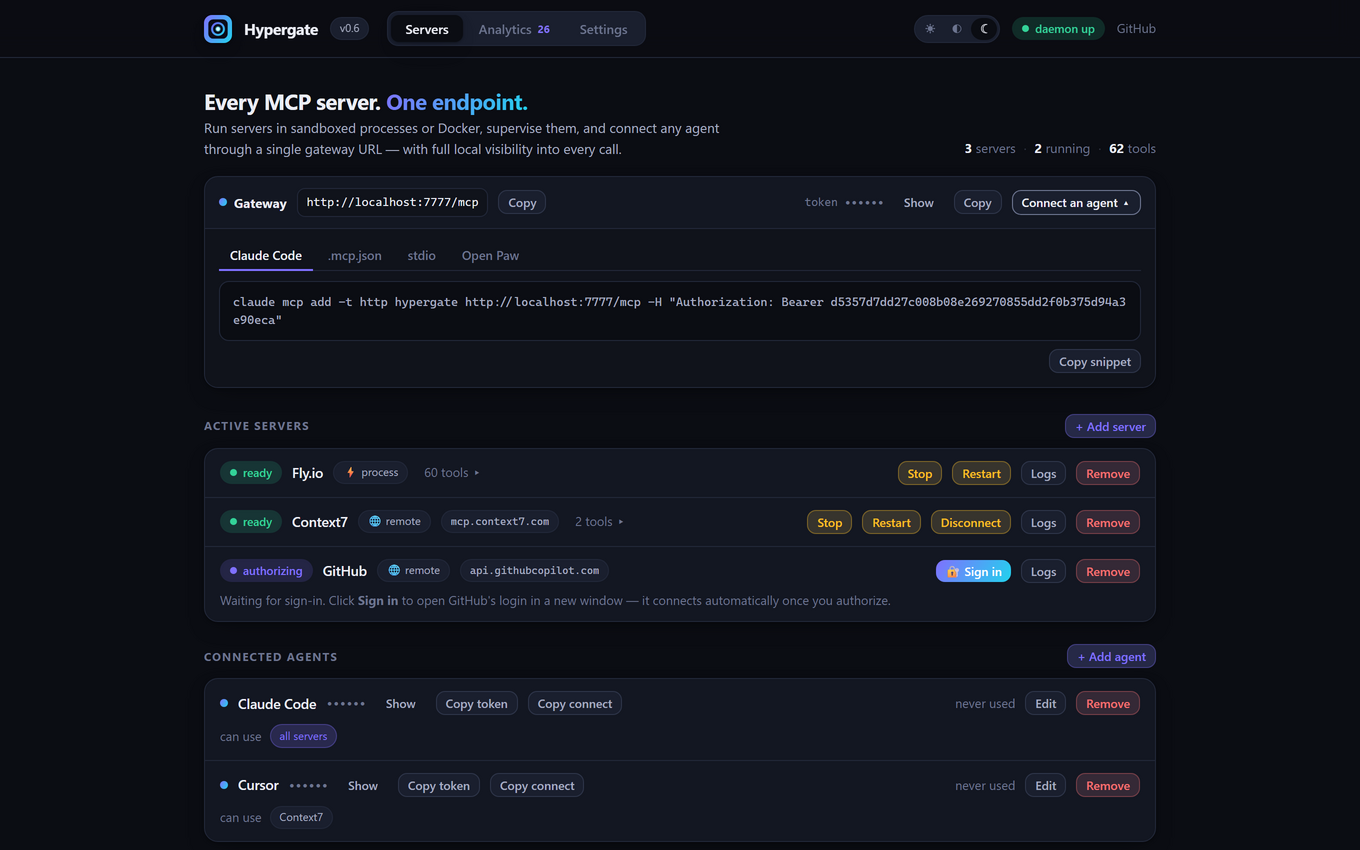
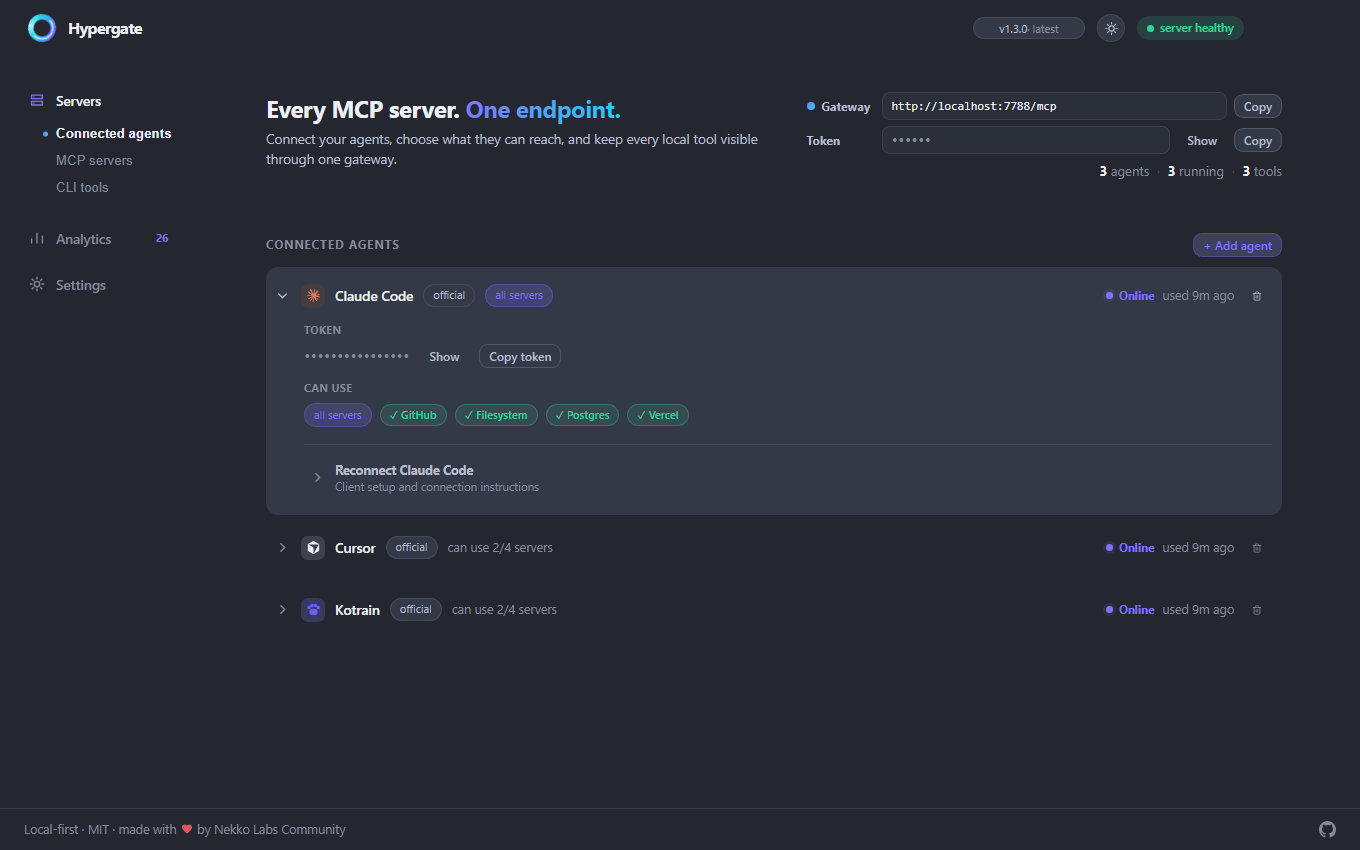
feat(site): show the app users get today
Replace the retired v0.6 product imagery with current, isolated captures so the marketing promise matches the shipped manager.

Generated with [Devin](https://devin.ai)

diff --git a/apps/site/index.html b/apps/site/index.html
@@ -184,7 +184,7 @@
         <figure class="shot reveal" data-parallax="0.05" data-title="Access control">
           <picture>
             <source type="image/webp" srcset="/demos/gateway-680.webp 680w, /demos/gateway.webp 1360w" sizes="(max-width: 900px) calc(100vw - 40px), 58vw" />
-            <img src="/demos/gateway.png" srcset="/demos/gateway-680.png 680w, /demos/gateway.png 1360w" sizes="(max-width: 900px) calc(100vw - 40px), 58vw" alt="Hypergate showing a masked gateway token, MCP servers including an OAuth-protected GitHub server awaiting sign-in, and connected agents scoped with per-server allow-lists" width="1360" height="850" loading="lazy" />
+            <img src="/demos/gateway.png" srcset="/demos/gateway-680.png 680w, /demos/gateway.png 1360w" sizes="(max-width: 900px) calc(100vw - 40px), 58vw" alt="Hypergate access-control view with Claude Code expanded to show its masked token and access to GitHub, Filesystem, Postgres, and Vercel" width="1360" height="850" loading="lazy" />
           </picture>
         </figure>
       </article>
@@ -206,7 +206,7 @@
         <figure class="shot reveal" data-parallax="0.05" data-title="Servers">
           <picture>
             <source type="image/webp" srcset="/demos/servers-680.webp 680w, /demos/servers.webp 1360w" sizes="(max-width: 900px) calc(100vw - 40px), 58vw" />
-            <img src="/demos/servers.png" srcset="/demos/servers-680.png 680w, /demos/servers.png 1360w" sizes="(max-width: 900px) calc(100vw - 40px), 58vw" alt="Hypergate servers view: Fly.io process server, Context7 remote server, GitHub awaiting sign-in, and scoped connected agents" width="1360" height="850" loading="lazy" />
+            <img src="/demos/servers.png" srcset="/demos/servers-680.png 680w, /demos/servers.png 1360w" sizes="(max-width: 900px) calc(100vw - 40px), 58vw" alt="Hypergate MCP servers view with GitHub, Filesystem, and Postgres running, Vercel awaiting a token, and per-agent access counts" width="1360" height="850" loading="lazy" />
           </picture>
         </figure>
       </article>
@@ -227,7 +227,7 @@
         <figure class="shot reveal" data-parallax="0.05" data-title="Analytics">
           <picture>
             <source type="image/webp" srcset="/demos/analytics-680.webp 680w, /demos/analytics.webp 1360w" sizes="(max-width: 900px) calc(100vw - 40px), 58vw" />
-            <img src="/demos/analytics.png" srcset="/demos/analytics-680.png 680w, /demos/analytics.png 1360w" sizes="(max-width: 900px) calc(100vw - 40px), 58vw" alt="Hypergate analytics: 26 tool calls at 100 percent success across 4 clients, usage by server and a who's-calling breakdown" width="1360" height="850" loading="lazy" />
+            <img src="/demos/analytics.png" srcset="/demos/analytics-680.png 680w, /demos/analytics.png 1360w" sizes="(max-width: 900px) calc(100vw - 40px), 58vw" alt="Hypergate analytics overview with 26 calls at 100 percent success across three agents and usage by GitHub, Filesystem, and Postgres" width="1360" height="850" loading="lazy" />
           </picture>
         </figure>
       </article>
@@ -249,7 +249,7 @@
         <figure class="shot reveal" data-parallax="0.05" data-title="Add a server">
           <picture>
             <source type="image/webp" srcset="/demos/catalog-680.webp 680w, /demos/catalog.webp 1360w" sizes="(max-width: 900px) calc(100vw - 40px), 58vw" />
-            <img src="/demos/catalog.png" srcset="/demos/catalog-680.png 680w, /demos/catalog.png 1360w" sizes="(max-width: 900px) calc(100vw - 40px), 58vw" alt="Hypergate catalog with official trust chips and one-click OAuth sign-in-and-add buttons for Context7, Supabase, Linear, and Figma" width="1360" height="850" loading="lazy" />
+            <img src="/demos/catalog.png" srcset="/demos/catalog-680.png 680w, /demos/catalog.png 1360w" sizes="(max-width: 900px) calc(100vw - 40px), 58vw" alt="Hypergate catalog with official OAuth servers and recommended connection guidance for Context7, Supabase, Linear, Figma, and GitHub" width="1360" height="850" loading="lazy" />
           </picture>
         </figure>
       </article>
@@ -270,7 +270,7 @@
         <figure class="shot reveal" data-parallax="0.05" data-title="Tool inspector">
           <picture>
             <source type="image/webp" srcset="/demos/tools-680.webp 680w, /demos/tools.webp 1360w" sizes="(max-width: 900px) calc(100vw - 40px), 58vw" />
-            <img src="/demos/tools.png" srcset="/demos/tools-680.png 680w, /demos/tools.png 1360w" sizes="(max-width: 900px) calc(100vw - 40px), 58vw" alt="Hypergate tool inspector showing Fly.io tools with typed parameters and required flags" width="1360" height="850" loading="lazy" />
+            <img src="/demos/tools.png" srcset="/demos/tools-680.png 680w, /demos/tools.png 1360w" sizes="(max-width: 900px) calc(100vw - 40px), 58vw" alt="Hypergate GitHub server detail showing a typed tool schema, connected-agent permissions, and local logs" width="1360" height="850" loading="lazy" />
           </picture>
         </figure>
       </article>
@@ -292,7 +292,7 @@
         <figure class="shot reveal" data-parallax="0.05" data-title="Command-line tools">
           <picture>
             <source type="image/webp" srcset="/demos/clis-680.webp 680w, /demos/clis.webp 1360w" sizes="(max-width: 900px) calc(100vw - 40px), 58vw" />
-            <img src="/demos/clis.png" srcset="/demos/clis-680.png 680w, /demos/clis.png 1360w" sizes="(max-width: 900px) calc(100vw - 40px), 58vw" alt="Hypergate CLI detection: Node.js, npx, npm, Bun installed with versions and paths, Deno missing with an install hint" width="1360" height="850" loading="lazy" />
+            <img src="/demos/clis.png" srcset="/demos/clis-680.png 680w, /demos/clis.png 1360w" sizes="(max-width: 900px) calc(100vw - 40px), 58vw" alt="Hypergate CLI tools view showing installed Node.js, npx, and npm with versions and system paths" width="1360" height="850" loading="lazy" />
           </picture>
         </figure>
       </article>

diff --git a/apps/daemon/src/index.ts b/apps/daemon/src/index.ts
@@ -135,7 +135,7 @@ const TOKEN_KEY = 'bearerToken';
 // otherwise get a daemon on 7777 that the CLI then looks for somewhere else.
 const PORT = Number(process.env.HYPERGATE_PORT ?? process.env.PORT ?? 7777);
 const LISTEN_HOST = '127.0.0.1';
-const VERSION = '1.3.0';
+const VERSION = '1.4.0';
 /**
  * `--stdio` is a transient spawn by an agent harness, not the resident daemon.
  * It deliberately does NOT open the durable store: the rolled-up aggregates are

diff --git a/SPEC.md b/SPEC.md
@@ -181,6 +181,7 @@ The gateway is the perfect vantage point: every tool call fans through it, so we
 | hypergate.app | `apps/site`: a static Vite site with Lenis smooth scroll, a WebGL liquid warp-gate hero (fbm domain-warp shader, scroll-velocity reactive), a drifting starfield with scroll warp-streaks, and six feature sections each showing a **real screenshot of the running app** (gateway snippets, servers, analytics, catalog, tool inspector, CLI radar), plus isolation cards and a quick start. Its first CTA detects desktop OS and architecture, fetches the latest published GitHub release, shows that version, and downloads the matching installer directly; Linux defaults to DEB with RPM and tarball alternatives, macOS offers an Apple silicon / Intel override for browsers that conceal architecture, and mobile omits both the unavailable download action and desktop-only install command. A release notes page renders published GitHub releases and their notes dynamically. GitHub remains the secondary CTA. Deployed on Vercel (Nekko Labs team, existing project `hypergate`); domains `hypergate.app` + `www` attached. The project is natively linked to `nekko-labs/hypergate`, builds from `apps/site`, and treats `main` as the production branch, so merging a PR creates the production deployment without a local token or manual CLI step. Public alias: hypergate-psi.vercel.app. The hero scrim fades fully before its bounds so the animated gate has no rectangular seams. The liquid shader maps its angular noise through continuous circular coordinates, so the ring has no horizontal branch-cut split as the animation moves. Its terminal snippet detects the desktop OS and architecture and shows one transparent command that downloads the matching stable release asset, installs Hypergate, and opens the app using that platform's shell syntax | shipped | next |
 | The hero sells safe connection, not plumbing | The headline is **Every MCP server. One secure gate.** and the subhead asks the question a visitor actually arrives with: do you want to connect your agents (Claude Code, Codex, Kotrain, Cursor, Devin) to services like GitHub, Vercel, Slack or Google Drive, easily and safely? The answer names the thing competitors don't do: Hypergate is a safety layer where authentication, keys and permissions are not in the hands of an agent if things go bad. The previous subhead described the mechanism (sandboxed, supervised, aggregated behind one endpoint), which reads as a feature list to someone who has not yet decided they need a runtime; the mechanism still lives in the security section, the isolation cards and the quick start, so nothing true was lost. Named services replace the abstract "MCP servers" because the visitor recognises the services, not the protocol | shipped | v0.18.0 |
 | The metadata says what the page says | The title, social descriptions and structured data were still selling the mechanism after the hero stopped, so a search result and a shared link promised something the page no longer led with. All of it now leads with connecting agents to named services safely: the title is **Hypergate: every MCP server, one secure gate**, the social cards name the agents (Claude Code, Codex, Cursor) and the services, and the `WebSite` / `SoftwareApplication` descriptions state credential custody as the reason the product exists. `llms.txt` gained the same claim in its opening summary, since answer engines read that file rather than the hero. The mechanism sentences stay in the `SoftwareApplication` description and the `featureList`, which is the surface that should be exhaustive. The title's em dash went with it, per the house style | shipped | v0.20.0 |
+| Current app imagery | Every feature screenshot reflects the current left-navigation manager rather than the retired v0.6 top-tab interface. The six views cover scoped agents, managed servers, analytics, the server catalog, tool details with per-agent permissions, and local CLI detection. They are captured at a consistent 1360 × 850 viewport from an isolated daemon populated through Hypergate's real APIs, including 26 genuine gateway calls, with no personal configuration or credentials. Responsive PNG and WebP variants keep the imagery sharp without making mobile visitors download desktop-sized assets | shipped | v1.4.0 |
 
 ### 3.8 Desktop shell & CLI `[shipped]`
 

diff --git a/TASKS.md b/TASKS.md
@@ -167,6 +167,7 @@ Mirror of Part 1 §5. `[x]` = shipped per the prior plan · `[ ]` = open.
 ## Epic 7 — Hypergate rebrand + marketing site (v0.7.0)
 - [x] **Rename NekkoMCP → Hypergate** (whole product + codebase; hypergate.app purchased): packages `@nekko-mcp/*` → `@hypergate/*`, daemon `nekko-mcpd` → `hypergated`, env vars `NEKKO_MCP_*` → `HYPERGATE_*`, data dir `~/.nekko-mcp` → `~/.hypergate` (one-time boot migration adopts the old dir wholesale so servers/tokens/analytics/OAuth grants survive), tray `nekko-tray.*` → `hypergate-tray.*`, localStorage `nekko-theme` → `hypergate-theme`, `NekkoOAuthProvider` → `HypergateOAuthProvider`, GitHub repo `nekko-labs/nekko-mcp` → `nekko-labs/hypergate`. New warp-gate mark (gradient ring + glowing core) across favicon, tray icon, and a redesigned deep-space splash. Kept: Nekko Labs (the company), the Nekko Vault catalog entry, and Kotrain (then open-paw) identifiers (`detectNekkoMcp`, `mcp:nekko`) that live in the other repo. Verified: build + 37 tests + both smoke suites green, daemon boots, migration exercised for real, old gateway token rotated. · [spec](SPEC.md#1-vision--positioning) · Done: 2026-07-25
 - [x] **Marketing site (`apps/site`) + deploy**: static Vite + TypeScript one-pager with Lenis smooth scroll (anchor easing; velocity feeds the visuals), a WebGL liquid warp-gate hero (fbm domain-warp fragment shader, scroll-boosted, CSS fallback), a canvas starfield that streaks into warp lines on fast scroll, reveal-on-enter, screenshot parallax, and six feature sections each backed by a **real captured screenshot** of the running app (Playwright, dark theme, real servers + 26 genuine gateway calls behind the analytics shot). Deployed to Vercel (nekkolabs/hypergate); `hypergate.app` + `www` attached, registrar DNS still on parking, live alias hypergate-psi.vercel.app until the A records land. · [spec](SPEC.md#37-marketing-site-shipped) · Done: 2026-07-25
+- [x] **Refresh the marketing screenshots for the current app**: recaptured all six feature views from the v1.3 left-navigation manager at 1360 × 850 using an isolated daemon, scoped demo agents, four demo servers, and 26 real gateway calls. Rebuilt full and 680px PNG/WebP variants, and updated every image description to match what the screenshot now shows. No personal config, paths, tokens, or credentials are present. · [spec](SPEC.md#37-marketing-site-shipped) · Done: 2026-08-15
 
 ## Epic 8 — Durable store + Rust desktop shell (v0.8.0)
 
